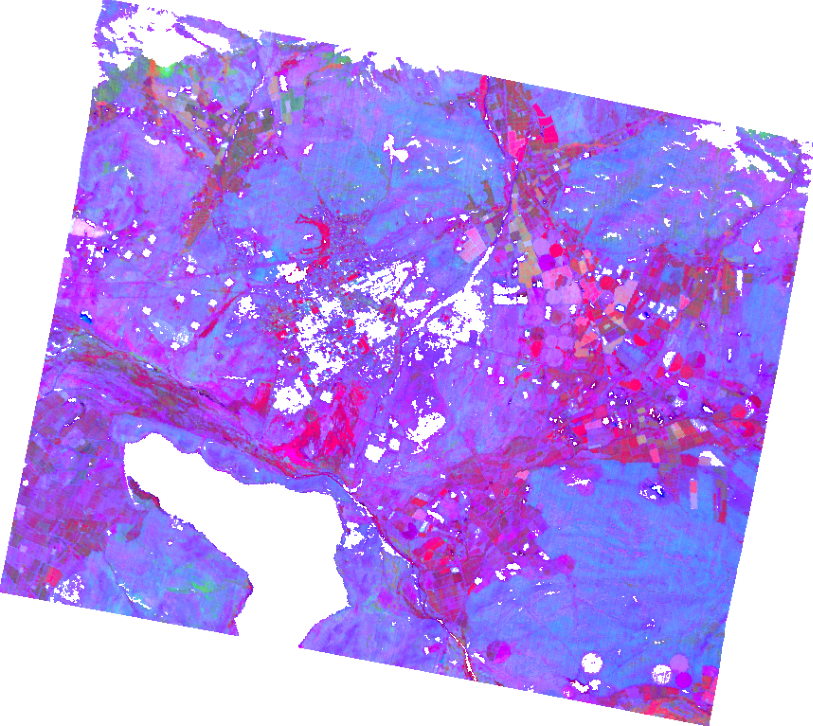
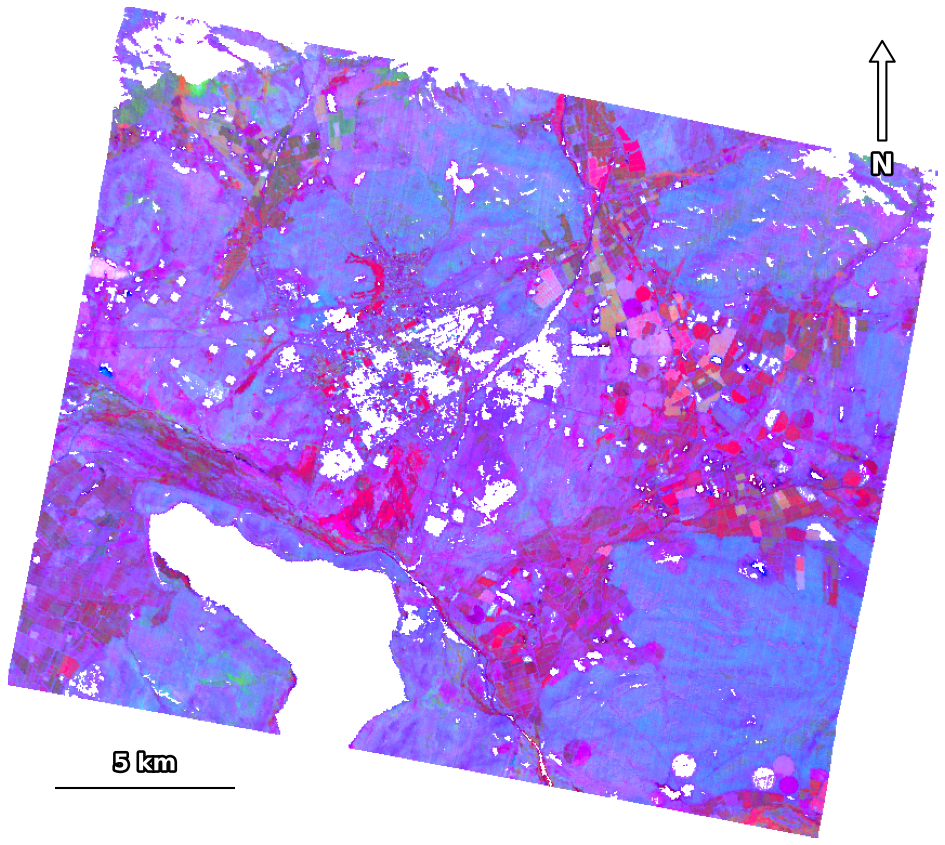
Improve figure legibility; add EMIT to FWHM plot; fix wording
FWHM comparison now includes EMIT (native ~8.4-8.8nm, coarser than
both Tanager and AVIRIS-NG) with larger fonts and a legend moved below
the plot so it no longer overlaps the data. California trait maps
(Figure 8) now render as a 2x3 grid instead of a cramped 1x5 row, with
bigger panels and larger labels. The ternary composite (Figure 3) is
now rendered from the GeoTIFF via a new script (step17) instead of a
manual QGIS export, adding a north arrow and 5km scale bar. Also: Figure
1 moved to the end of Section 1 so the hook paragraph reads as one
block; fixed "does it takes" grammar and swapped "honest" for "credible"
in the closing hook sentence; SHIFT training date range added to the
sensors table per DAAC documentation.

diff --git a/code/step16_fwhm_comparison.py b/code/step16_fwhm_comparison.py
@@ -1,10 +1,11 @@
-"""FWHM-vs-wavelength comparison, Tanager vs. AVIRIS-NG -- the figure
-mentioned in the outline (Section 2) but never built, per Henry's request
-to generate it and decide whether it's worth including.
+"""FWHM-vs-wavelength comparison, Tanager vs. AVIRIS-NG vs. EMIT -- the
+figure mentioned in the outline (Section 2), kept after Henry's review
+(2026-08-28) and extended to add EMIT alongside the original two.
 
-Both arrays are real, not nominal spec-sheet values: Tanager's from the
-example scene's own h5 attrs, AVIRIS-NG's from an actual corrected
-BioSCape flightline (same source step2 uses for cross-sensor matching).
+All three arrays are real, not nominal spec-sheet values: Tanager's from
+the example scene's own h5 attrs, AVIRIS-NG's from an actual corrected
+BioSCape flightline (same source step2 uses for cross-sensor matching),
+EMIT's from the same L2A granule used in the EMIT comparison (step6).
 """
 import h5py
 import netCDF4 as nc
@@ -20,6 +21,10 @@ TANAGER_H5 = (
 AVIRIS_REFERENCE_NC = (
     "/Volumes/Enspec/projects/BioScape/Lines_Corrected_Hyperspectral/"
     "ang20231022t092801_000_L2A_OE_0b4f48b4_RFL_ORT_corr_topo_brdf_glint_v1.nc"
+)
+EMIT_NC = (
+    "/Volumes/Enspec/projects/BioScape/tanager_competition/emit_comparison/"
+    "EMIT_L2A_RFL_001_20260302T092128_2606106_004.nc"
 )
 OUT_PATH = "writeup/figures/fwhm_comparison.png"
 
@@ -39,27 +44,44 @@ def get_aviris_fwhm():
     return wl, fwhm
 
 
+def get_emit_fwhm():
+    ds = nc.Dataset(EMIT_NC)
+    sbp = ds.groups["sensor_band_parameters"]
+    wl = np.array(sbp.variables["wavelengths"][:], dtype=float)
+    fwhm = np.array(sbp.variables["fwhm"][:], dtype=float)
+    ds.close()
+    return wl, fwhm
+
+
 def main():
     tan_wl, tan_fwhm = get_tanager_fwhm()
     av_wl, av_fwhm = get_aviris_fwhm()
+    emit_wl, emit_fwhm = get_emit_fwhm()
 
-    fig, ax = plt.subplots(figsize=(9, 5))
-    ax.plot(tan_wl, tan_fwhm, label="Tanager (this scene)", color="#d55e00", linewidth=1.5)
-    ax.plot(av_wl, av_fwhm, label="AVIRIS-NG (BioSCape flightline)", color="#0072b2", linewidth=1.5)
+    fig, ax = plt.subplots(figsize=(11, 6.5))
+    ax.plot(tan_wl, tan_fwhm, label="Tanager (this scene)", color="#d55e00", linewidth=2)
+    ax.plot(av_wl, av_fwhm, label="AVIRIS-NG (BioSCape flightline)", color="#0072b2", linewidth=2)
+    ax.plot(emit_wl, emit_fwhm, label="EMIT (this scene)", color="#009e73", linewidth=2)
     ax.fill_between(tan_wl, tan_fwhm, np.interp(tan_wl, av_wl, av_fwhm),
                      where=(tan_fwhm > np.interp(tan_wl, av_wl, av_fwhm)),
-                     color="#d55e00", alpha=0.15, label="Tanager wider (can't sharpen)")
-    ax.set_xlabel("Wavelength (nm)")
-    ax.set_ylabel("FWHM (nm)")
-    ax.set_title("Spectral response width by wavelength: Tanager vs. AVIRIS-NG\n(real per-band values, not nominal spec-sheet FWHM)")
-    ax.legend(loc="upper right", fontsize=9)
+                     color="#d55e00", alpha=0.15, label="Tanager wider than AVIRIS-NG (can't sharpen)")
+    ax.set_xlabel("Wavelength (nm)", fontsize=15)
+    ax.set_ylabel("FWHM (nm)", fontsize=15)
+    ax.set_title(
+        "Spectral response width by wavelength: Tanager vs. AVIRIS-NG vs. EMIT\n"
+        "(real per-band values, not nominal spec-sheet FWHM)",
+        fontsize=15,
+    )
+    ax.tick_params(axis="both", labelsize=13)
+    ax.legend(loc="upper center", bbox_to_anchor=(0.5, -0.14), ncol=2, fontsize=13)
     ax.set_xlim(376, 2500)
     fig.tight_layout()
-    fig.savefig(OUT_PATH, dpi=150)
+    fig.savefig(OUT_PATH, dpi=150, bbox_inches="tight")
     print(f"Wrote {OUT_PATH}")
 
     print(f"\nTanager FWHM range: {tan_fwhm.min():.2f}-{tan_fwhm.max():.2f} nm")
     print(f"AVIRIS-NG FWHM range: {av_fwhm.min():.2f}-{av_fwhm.max():.2f} nm")
+    print(f"EMIT FWHM range: {emit_fwhm.min():.2f}-{emit_fwhm.max():.2f} nm")
     tan_wider_frac = (tan_fwhm > np.interp(tan_wl, av_wl, av_fwhm)).mean()
     print(f"Fraction of Tanager bands wider than AVIRIS-NG at that wavelength: {tan_wider_frac*100:.0f}%")
 

diff --git a/code/step17_ternary_report_figure.py b/code/step17_ternary_report_figure.py
@@ -1,0 +1,68 @@
+"""Render step5's field-referenced ternary GeoTIFF to the report PNG,
+with a north arrow and scale bar -- previously a manual QGIS export with
+neither (2026-08-28, Henry's review). Builds it in Python instead of
+QGIS so the figure is reproducible from this repo alone, same rationale
+as step5's own raw_rgb port.
+
+The GeoTIFF is UTM 34S (EPSG:32734), 30m pixels, north-up -- a plain
+image plot preserves true north without needing an axes projection.
+"""
+import numpy as np
+import rasterio
+import matplotlib
+matplotlib.use("Agg")
+import matplotlib.pyplot as plt
+import matplotlib.patheffects
+
+TERNARY_TIF = (
+    "/Volumes/Enspec/projects/BioScape/tanager_competition/trait_outputs/"
+    "20250504_092952_87_4001_basic_sr_hdf5_Nitrogen_Lignin_Calcium_ternary.tif"
+)
+OUT_PATH = "writeup/figures/ternary_field_referenced.png"
+
+SCALE_BAR_M = 5000  # 5 km
+
+
+def main():
+    with rasterio.open(TERNARY_TIF) as src:
+        rgb = src.read([1, 2, 3])
+        alpha = src.read(4)
+        px_size_m = src.transform.a
+        height, width = src.height, src.width
+
+    img = np.moveaxis(rgb, 0, -1).astype(float) / 255.0
+    img_rgba = np.dstack([img, alpha.astype(float) / 255.0])
+
+    fig, ax = plt.subplots(figsize=(8, 8))
+    ax.imshow(img_rgba)
+    ax.axis("off")
+
+    # Scale bar: bottom-left, in data (pixel) coordinates.
+    bar_px = SCALE_BAR_M / px_size_m
+    margin_x = width * 0.05
+    margin_y = height * 0.06
+    bar_y = height - margin_y
+    ax.plot([margin_x, margin_x + bar_px], [bar_y, bar_y], color="white",
+             linewidth=3, solid_capstyle="butt")
+    ax.plot([margin_x, margin_x + bar_px], [bar_y, bar_y], color="black",
+             linewidth=1, solid_capstyle="butt")
+    ax.text(margin_x + bar_px / 2, bar_y - height * 0.015, f"{SCALE_BAR_M // 1000} km",
+            color="white", ha="center", va="bottom", fontsize=11, fontweight="bold",
+            path_effects=[matplotlib.patheffects.withStroke(linewidth=2.5, foreground="black")])
+
+    # North arrow: top-right.
+    arrow_x = width * 0.94
+    arrow_y_tail = height * 0.16
+    arrow_y_head = height * 0.04
+    ax.annotate("", xy=(arrow_x, arrow_y_head), xytext=(arrow_x, arrow_y_tail),
+                arrowprops=dict(facecolor="white", edgecolor="black", width=4, headwidth=12, headlength=10))
+    ax.text(arrow_x, arrow_y_tail + height * 0.015, "N", color="white", ha="center",
+            va="top", fontsize=13, fontweight="bold",
+            path_effects=[matplotlib.patheffects.withStroke(linewidth=2.5, foreground="black")])
+
+    fig.savefig(OUT_PATH, dpi=150, bbox_inches="tight", pad_inches=0.05)
+    print(f"Wrote {OUT_PATH}")
+
+
+if __name__ == "__main__":
+    main()

diff --git a/code/step13_california_sidebyside_maps.py b/code/step13_california_sidebyside_maps.py
@@ -59,7 +59,13 @@ def load_masked(stem, veg_mask):
 
 def main():
     veg_mask = load_veg_mask()
-    fig, axes = plt.subplots(1, len(TRAITS), figsize=(4 * len(TRAITS), 5))
+    ncols = 3
+    nrows = 2
+    fig, axes = plt.subplots(nrows, ncols, figsize=(6 * ncols, 5.2 * nrows))
+    fig.subplots_adjust(hspace=0.25, wspace=0.35, top=0.86)
+    axes = axes.flatten()
+    for ax in axes[len(TRAITS):]:
+        ax.axis("off")
 
     for ax, (label, stem, colors) in zip(axes, TRAITS):
         arr = load_masked(stem, veg_mask)
@@ -78,10 +84,10 @@ def main():
         cmap.set_bad("lightgray")
         norm = BoundaryNorm([-0.5, 0.5, 1.5, 2.5], cmap.N)
         im = ax.imshow(binned, cmap=cmap, norm=norm)
-        ax.set_title(label, fontsize=11)
+        ax.set_title(label, fontsize=16)
         ax.set_xticks([]); ax.set_yticks([])
         cbar = fig.colorbar(im, ax=ax, fraction=0.046, pad=0.04, ticks=[0, 1, 2])
-        cbar.ax.set_yticklabels(["Low", "Med", "High"])
+        cbar.ax.set_yticklabels(["Low", "Med", "High"], fontsize=13)
 
         print(f"{label}: n_valid={valid.size}, tercile cuts at {lo_cut:.2f}/{hi_cut:.2f} "
               f"(scene-relative, not an absolute/validated scale)")
@@ -90,7 +96,7 @@ def main():
         "California (SHIFT models) predicted trait patterns, 2025-04-07\n"
         "Relative Low/Med/High within this scene only -- no field validation for California in this project;\n"
         "gray = non-vegetated. Not a numerically validated product.",
-        fontsize=11,
+        fontsize=15,
     )
     out_path = FIGURES_DIR + "california_sidebyside_maps.png"
     fig.savefig(out_path, dpi=150, bbox_inches="tight")

diff --git a/writeup/report_draft.md b/writeup/report_draft.md
@@ -24,15 +24,7 @@ question mark against all three: a different platform (spaceborne, not
 airborne), built and calibrated independently, flying over the same
 landscape roughly a year and a half later.
 
-![AVIRIS-NG flight box coverage and trait sampling locations across the Cape Floristic Region](figures/bioscape_sampling.png)
-
-*Figure 1. AVIRIS-NG flight box coverage (outlines) and trait sampling
-locations (orange points) across the Cape Floristic Region, 2023 BioSCape
-campaign. PNG here for preview; the source PDF (vector, on Enspec at
-`figures/bioscape_sampling.pdf`) is what to embed in the final submission
-for print-quality rendering.*
-
-**Can an existing, independently-trained trait-model library transfer to
+**Can an existing, independently-trained trait-model transfer to
 a brand-new commercial hyperspectral platform with *zero recalibration*?**
 That's the question this project set out to answer, using Tanager's
 example release scene over the Cape Floristic Region — and, once the
@@ -43,10 +35,16 @@ The answer, in short is **yes** — and the caveats along the way turn out to be
 as informative as the successes.
 
 Missions like EAGLE-VSWIR will inherit this exact question the moment
-they launch: how trait models trained on one instrument transfer to
-another, and what it takes to make that transfer honest rather than
-aspirational. Tanager, already on orbit, is a chance to work out the
-answer now.
+they launch: how do trait models trained on one instrument transfer to
+another, and what does it take to make that transfer credible rather
+than aspirational. **Tanager, already in orbit, is a chance to work out
+the answer now.**
+
+![](figures/bioscape_sampling.png)
+
+*Figure 1. AVIRIS-NG flight box coverage (outlines) and trait sampling
+locations (orange points) across the Cape Floristic Region, 2023 BioSCape
+campaign.*
 
 ## 2. Data and methods
 
@@ -57,13 +55,10 @@ answer now.
 | Tanager (`basic_sr_hdf5`, Guido et al. 2025) | Primary test platform | Cape scene (2025-05-04), California scene (2025-04-07) |
 | AVIRIS-NG (BioSCape campaign, Kovach et al. 2025) | Trait model training data + independent airborne validation | Nov 2023, Cape region |
 | EMIT | Independent spaceborne cross-check | 2026-03-02, same Cape area of interest (AOI) |
-| AVIRIS-NG (SHIFT campaign, Chadwick et al. 2025) | Trait model training data, California | Santa Barbara, exact dates TBC |
-
-† *SHIFT background: [earthdata.nasa.gov/data/projects/shift](https://www.earthdata.nasa.gov/data/projects/shift). Imagery used for training confirmed by Ting (matches DAAC documentation): Brodrick et al., 2023, SHIFT: AVIRIS-NG L2A Unrectified Surface Reflectance V1, ORNL DAAC, https://doi.org/10.3334/ORNLDAAC/2376. (The California model json also carries a `spectrometer: "avc+neon"` metadata tag; confirmed with Ting, who provided the model, that this is a stale artifact from a script originally built for WDTS data, left in by mistake — the SHIFT model is trained on SHIFT field data only, same AVIRIS-NG platform as BioSCape.)*
+| AVIRIS-NG (SHIFT campaign, Chadwick et al. 2025) | Trait model training data, California | Santa Barbara, 2022-02-24 to 2022-05-29 |
 
 **Trait models**: BioSCape's PLSR (partial least squares regression)
-foliar trait models — Nitrogen, Calcium, Lignin, Cellulose, and leaf mass
-per area (LMA) of the 20 traits in the full product — were trained on
+foliar trait models — Nitrogen, Calcium, Lignin, and Cellulose, of the 20 traits in the full product — were trained on
 AVIRIS-NG L2B enhanced surface reflectance (Kovach et al., 2025) and
 community-weighted-mean field chemistry from 542 plots collected
 concurrent with image acquisition (median 9-day mismatch between plot
@@ -77,13 +72,6 @@ independently-trained model set from the SHIFT campaign (Santa Barbara,
 CA; Chadwick et al., 2025) — same AVIRIS-NG platform, different campaign
 and field dataset — was used for the California test.
 
-**The core technical problem**: Tanager's `basic_sr_hdf5` format is not
-readable by existing trait-modeling pipelines (HyTools, built for this
-lab's airborne processing, has no reader for it — it's a different HDF5
-schema entirely, not the NEON format its one HDF5 reader expects). We
-built a standalone reader and resampling pipeline instead of forcing
-Tanager into infrastructure designed for large airborne tiles.
-
 **Cross-sensor spectral matching**: applying an AVIRIS-NG-trained model to
 Tanager reflectance isn't a matter of matching wavelengths alone — the two
 sensors have different spectral response widths (FWHM) at every band.
@@ -96,13 +84,15 @@ matches its as-flown FWHM (we pulled AVIRIS-NG's real per-band FWHM from
 an actual corrected flightline rather than the trait model's own metadata,
 which didn't carry it).
 
-![FWHM by wavelength, Tanager vs. AVIRIS-NG](figures/fwhm_comparison.png)
+![FWHM by wavelength, Tanager vs. AVIRIS-NG vs. EMIT](figures/fwhm_comparison.png)
 
 *Figure 2. Real per-band FWHM by wavelength (not nominal spec-sheet
 values). Tanager runs wider than AVIRIS-NG across most of 400-1750 nm
 (62% of Tanager bands, shaded region), narrower above ~1750 nm --
 exactly the pattern behind the "can't sharpen" caveats reported for
-individual traits later in this section and Section 3.*
+individual traits later in this section and Section 3. EMIT's native
+FWHM (8.4-8.8 nm) is coarser than both across the full range, for
+context in Section 4's comparison.*
 
 **Model variant**: BioSCape's trait models come in two spectral-range
 flavors per trait — infrared-only (1000–2450 nm) and full-spectrum
@@ -401,7 +391,7 @@ City, UT, USA (pp. 10-13).
 | # | Figure | Section | File |
 |---|---|---|---|
 | 1 | Flight-box coverage + sample sites | 1 | `figures/bioscape_sampling.png` (vector source: Enspec `figures/bioscape_sampling.pdf`) |
-| 2 | FWHM by wavelength, Tanager vs. AVIRIS-NG | 2 | `figures/fwhm_comparison.png` |
+| 2 | FWHM by wavelength, Tanager vs. AVIRIS-NG vs. EMIT | 2 | `figures/fwhm_comparison.png` |
 | 3 | Cape ternary composite (Nitrogen/Lignin/Calcium), field-referenced | 3 | `figures/ternary_field_referenced.png` |
 | 4 | Tanager vs. EMIT, all 4 traits, side by side | 4 | `figures/tanager_vs_emit_sidebyside_maps.png` |
 | 5 | Tanager vs. EMIT, density distributions | 4 | `figures/emit_vs_tanager_density.png` |
